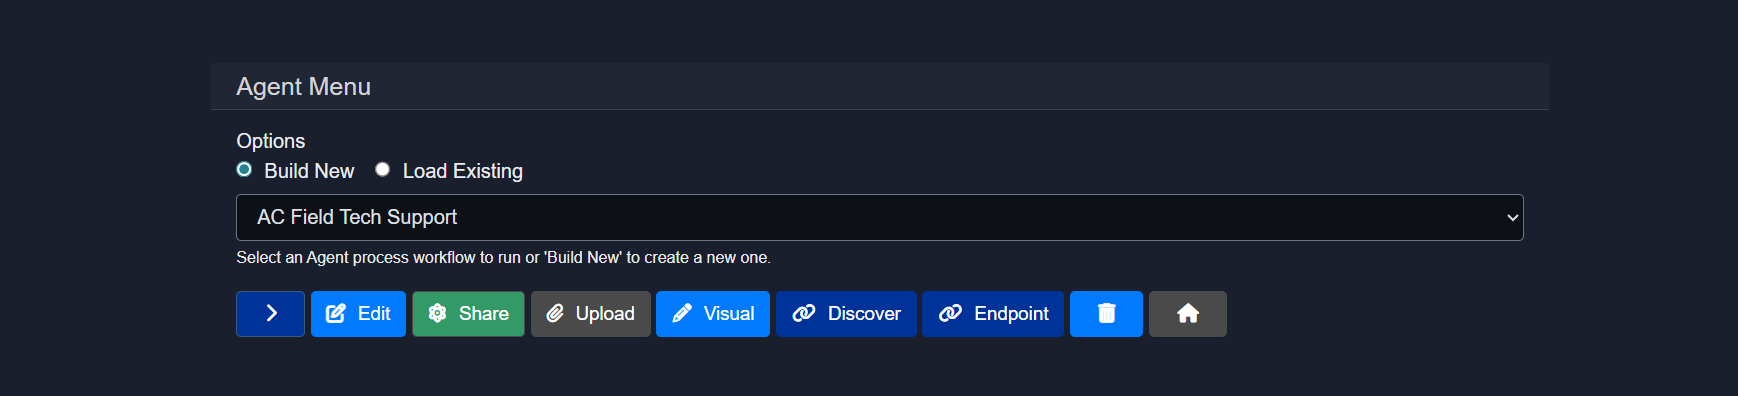
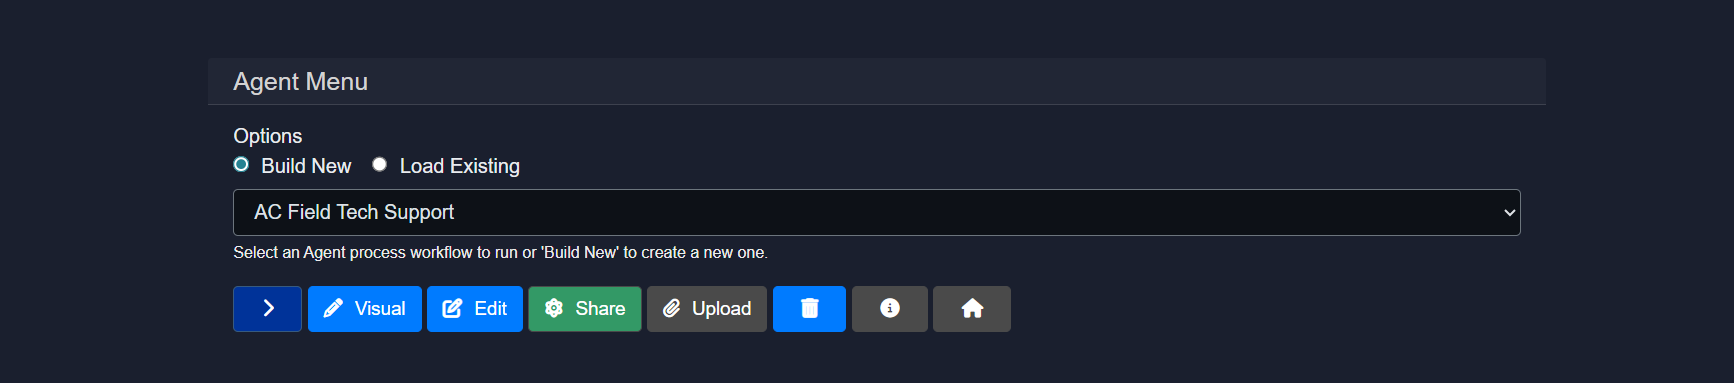
docs: add edit agents and create agents

diff --git a/model-hq-markdown-docs/v1/agents/editAgent.md b/model-hq-markdown-docs/v1/agents/editAgent.md
@@ -110,58 +110,7 @@ Steps are always executed from top to bottom in the order shown.
 
 Below is the list of supported services, their expected instruction formats, descriptions, and applicable context sources.
 
-| **Service Name**         | **Instruction**                                                        | **Description**                                                                               | **Context**                                   |
-| ------------------------ | ---------------------------------------------------------------------- | --------------------------------------------------------------------------------------------- | --------------------------------------------- |
-| **build_table**         | Enter name of table (will be built from the selected input table file) | Create Table from CSV data                                                                    | `User-Table`                                  |
-| **query_custom_table** | Enter query for database table                                         | Database lookup in natural language. Requires `build_table` first. Keep table schema in mind. | `Enter_name_of_Table` This table is the result of Build_Table service step.                         |
-| **semantic_filter**     | What is your question or instruction?                                  | Filters an existing source based on question/topic to create new filtered source              | `User-Source`                                 |
-| **text_filter**         | What is the keyword or topic to filter the source?                     | Filters an existing source based on question/topic                                            | `User-Source`, or a 'filtered' query in the agent process.                 |
-| **document_filter**     | Document name                                                          | Filters an existing source by document name                                                   | `User-Source`, or a 'filtered' query in the agent process.                 |
-| **table_filter**        | No instruction required                                                | Filters table type content in User Source                                                     | `User-Source`                                 |
-| **aggregate_context**   | List the names of source contexts to consolidate. Use space-separated names like: `source_1 source_2 source_3`. Do **not** use curly braces (`{{}}`).        | Consolidates multiple source contexts into one. This is used to merge several sources into a unified context.                                                         | `No input context required`                     |
-| **create_context**      | What is your question or instruction?                                  | Answers a question or performs an instruction                                                 | `User-Source`                                 |
-| **parse_document**      | Enter name of new document source                                      | Creates a source from document for further document-related processing                        | `User-Document`                               |
-| **ocr**      | Enter name of new document source                                      | Creates a source from document for further This is the fall-back step to documents that cannot be parsed using the 'parse_document' step because they are image-based PDFs or security-encrypted PDFs. Create Source from Document - a necessary step for handling Document-related workflows such as RAG or Summary. This service must be applied first, prior to using most User-Document related Services.                         | `User-Document`                               |
-| **rag_answer**          | Ask question to longer document input                                  | Answers a question based on a longer document input                                           | `User-Source`, `Provide_instruction_or_query` |
-| **report_commentary**   | (Optional) Guidance to Commentary                                      | Generate report and commentary on key process results from the agent state in Word - no input context required                                  | `-`                                           |
-| **agent_report**        | Enter title for agent report                                           | Prepares report on agent output                                                               | `-`                                           |
-| **wikipedia_search**    | Add Wikipedia Articles as Research Context                             | Adds Wikipedia articles as research context                                                   | `None`                                        |
-| **embedded_bot**    | Optional. None required.                             | Pauses the execution of the agent process to allow the user to interact with the current state of the agent in chat format.                                                    | `None`                                        |
-| **condition**    | Enter expression to evaluate in 'if_true' or 'if_false' format                             | Evaluates the truth value of a condition, which can then be used as a variable in any other process step such that the step will only execute if it meets the selected condition                                                   | `None`                                        |
-| **web_search**    | Add query for a topic or a question                              | Runs websearches returning a summary text as a source and an indexed set of text chunks - needs SERP API or Tavily API                                                   | `None`                                        |
-| **speech_gen**    | Enter a topic or short input to convert to speech file                              | Using a short text input, generates an audio voice wav file based on the input text. (Experimental)                                                   | `None`                                        |
-| **image_gen**    | Enter a topic or description to convert to an image                              | Creates an image using the description or instruction provided by the user                                                   | `None`                                        |
-| **website_scrapper**    | Enter the full website url                             | Scrapes the website in question (some websites are protected against automatic scraping and does not work for all websites) to extract content for a downstream question in the agent process                                                   | `None`                                        |
-| **send_email**    | Enter the email address of the receiver                              | Automatically sends an email (Gmail only with credentials provided in Configuration/Credentials)                                                   | `Select context of the email`                                        |
-| **connect_library**     | Enter library name                                                     | Connects to Semantic Library from Model HQ API                                                | `-`                                           |
-| **query_library**       | Enter query for semantic library                                       | Queries connected semantic library                                                            | `Enter_Library-name`                          |
-| **get_stock_summary**  | Enter stock ticker                                                     | Stock lookup using YFinance                                                                   | `None`                                        |
-| **vision**               | Enter question to image file                                           | Provides answer/description from image                                                        | `User-Image`                                  |
-| **vision_batch**               | Enter question to batch of image files                                           | Takes a collection of user images as an input context, along with a text input of a question or instruction. Returns text output context with the answer based on the set of images.                                                         | `User-Document`                                  |
-| **parse_batch**               | Enter question to batch of documents files that have been parsed                                           | Takes a collection of document files as an input context, and will return a set of text chunks, indexed and packaged as a source, which can then be used as input to a number of other services                                                        | `User-Document`                                  |
-| **sentiment**            | No instruction required                                                | Analyzes sentiment (positive/negative/neutral)                                                | `MAIN-INPUT`, `User-Text`                     |
-| **boolean**              | Provide yes/no question                                                | Provides yes/no answer with explanation                                                       | `MAIN-INPUT`, `User-Text`                     |
-| **emotions**             | No instruction required                                                | Analyzes primary emotion in input                                                             | `MAIN-INPUT`, `User-Text`                     |
-| **topics**               | No instruction required                                                | Classifies topic of input                                                                     | `MAIN-INPUT`, `User-Text`                     |
-| **tags**                 | No instruction required                                                | Generates tags from input                                                                     | `MAIN-INPUT`, `User-Text`                     |
-| **intent**               | No instruction required                                                | Classifies intent of input                                                                    | `MAIN-INPUT`, `User-Text`                     |
-| **ratings**              | No instruction required                                                | Rates positivity from 1 to 5                                                                  | `MAIN-INPUT`, `User-Text`                     |
-| **ner**                  | No instruction required                                                | Identifies named entities (people, places, organizations)                                     | `MAIN-INPUT`, `User-Text`                     |
-| **xsum**                 | No instruction required                                                | Generates extreme summary or headline                                                         | `MAIN-INPUT`, `User-Text`                     |
-| **summary**              | Optional - add input instructions to focus the summarization           | Summarizes source content                                                                     | `MAIN-INPUT`, `User-Text`                     |
-| **category**             | No instruction required                                                | Analyzes category of the input passage                                                        | `MAIN-INPUT`, `User-Text`                     |
-| **q_gen**               | No instruction required                                                | Generates question from passage                                                               | `MAIN-INPUT`, `User-Text`                     |
-| **chat**                 | What is your question or instruction?                                  | Answers a question or performs instruction                                                    | `MAIN-INPUT`, `User-Text`, `None`             |
-| **extract**              | Enter extraction key, e.g., 'customer name'                            | Extracts key-value pair                                                                       | `MAIN-INPUT`, `User-Text`                     |
-| **extract_tiny**        | Enter extraction key, e.g., 'customer name'                            | Extracts key-value pair (tiny version)                                                        | `MAIN-INPUT`, `User-Text`                     |
-| **answer**               | What is your question?                                                 | Answers specific question from passage                                                        | `MAIN-INPUT`, `User-Text`                     |
-| **extract_table**       | Enter query to filter among available tables                           | Extracts table from document                                                                  | `User-Document`                               |
-| **END**                  | End of process                                                         | Marks the end of agent process                                                                | `None`                                        |
-| **openai_chat**                  | Enter input question or instruction                                                         | Chat agent calls OpenAI (requires separate API key in Configuration/Credentials) with an optional text input context. The output provides a context passage that can be used by other services                                                                | `Main Input or other Text Source`                                        |
-| **openai_rag**                  | Enter input question or instruction                                                         | Calls OpenAI (requires separate API key in Configuration/Credentials) with a RAG question. The output provides a context passage that can be used by other services                                                                | `Main Input or other Text Source`                                        |
-| **openai_rag_batch**                  | Enter input question or instruction                                                         | Calls OpenAI (requires separate API key in Configuration/Credentials) with a batch of document sources and generates a response based on the input instruction/question. The output provides a context passage that can be used by other services                                                                | `Main Input or other Text Source`                                        |
-| **anthropic_chat**                  | Enter input question or instruction                                                         | Chat agent calls Anthropic (requires separate API key in Configuration/Credentials) with an optional text input context. The output provides a context passage that can be used by other services                                                                | `Main Input or other Text Source`                                        |
-
+#-- will add service table here --#
 
 ### 2.4 Example: AC field tech support agent
 The example below demonstrates an **AC Field Tech Support** agent configured with **8 sequential steps**.
@@ -180,37 +129,30 @@ Execution order in this example:
 * Answer a question using retrieved context
 * End the process
 
-#### 2.4.2 Steps explained (high level)
-**Step 1: build_table**
-Creates a structured table from CSV data so it can be queried later.
-
-**Step 2: vision**
-Answers a question based on an uploaded image.
-This step is used to identify the AC model number from an image.
-
-**Step 3: extract**
-Extracts a key value from the previous step output.
-The extracted value is stored as a named variable.
-
-**Step 4: query_custom_table**
-Queries structured AC data using natural language.
-
-**Step 5: query_custom_table**
-Performs another query using a variable produced in Step 3.
-
-**Step 6: parse_document**
-Creates a searchable source from a technical document.
-
-**Step 7: rag_answer**
-Answers a question using the parsed document as context.
-
-**Step 8: END**
-Marks completion of the agent execution.
-
 ### 2.5 Action buttons
 The Action Buttons provide quick access to configure inputs, manage files, execute the agent, inspect metadata, review outputs, and control the overall agent lifecycle. Each button opens a focused view related to a specific stage of the agent workflow.
 
-#### 2.5.1 Inputs
+#### 2.5.1 Visual editor
+The **Visual Editor** opens the drag-and-drop canvas used to build and edit the agent workflow.
+
+This interface opens the visual builder, where you can:
+
+* Nodes can be added, connected, and reordered
+* Services and inputs can be configured
+* Execution flow can be visually inspected
+
+#### 2.5.2 Run
+The **Run** action executes a test run of the agent using the currently configured inputs, files, and workflow.
+
+During execution:
+
+* Nodes are executed sequentially from top to bottom
+* Intermediate outputs are generated and stored as named variables
+* Any configuration or logic issues surface immediately during the run
+
+This mode is primarily used for validation, debugging, and iteration before publishing or sharing the agent.
+
+#### 2.5.3 Inputs
 The **Inputs** button can be used to configure or update the user inputs required to run the agent.
 
 Supported input types:
@@ -251,7 +193,7 @@ Input-specific notes:
 * **User-Source**
   Allows users to upload multiple files as a single object. Parsing, table building, and vision processing are handled automatically. For best results, it is recommended to apply `semantic_filter` and `create_context` early in the workflow.
 
-#### 2.5.2 Files
+#### 2.5.4 Files
 The **Files** section is used to upload, manage, and associate assets with the agent.
 
 ![edit](agents/editAgent/03_2files.png)
@@ -264,18 +206,7 @@ Capabilities include:
 
 Uploaded files become available as contexts that can be selected by agent services such as `parse_document`, `build_table`, or `vision`. Multiple files can be added before saving and exiting.
 
-#### 2.5.3 Run
-The **Run** action executes a test run of the agent using the currently configured inputs, files, and workflow.
-
-During execution:
-
-* Nodes are executed sequentially from top to bottom
-* Intermediate outputs are generated and stored as named variables
-* Any configuration or logic issues surface immediately during the run
-
-This mode is primarily used for validation, debugging, and iteration before publishing or sharing the agent.
-
-#### 2.5.4 Meta
+#### 2.5.5 Meta
 The **Meta** section allows descriptive and presentation-related information for the agent to be defined.
 
 ![edit](agents/editAgent/03_4meta.png)
@@ -288,7 +219,7 @@ This typically includes:
 
 Meta information does not affect execution but is used for documentation, discovery, and presentation.
 
-#### 2.5.5 Outputs
+#### 2.5.6 Outputs
 The **Outputs** section controls what the agent returns after execution.
 
 ![edit](agents/editAgent/03_5outputs.png)
@@ -301,7 +232,7 @@ Options include:
 
 This allows fine-grained control over what consumers of the agent actually receive, rather than returning all internal state by default.
 
-#### 2.5.6 Reports
+#### 2.5.7 Reports
 The **Reports** section controls how agent execution results are packaged into structured, downloadable documents for different audiences such as business users, engineers, or compliance reviewers.
 
 ![edit](agents/editAgent/03_6reports.png)
@@ -333,7 +264,7 @@ Output formats:
 
 Reports can be regenerated at any time after a run.
 
-#### 2.5.7 Controls
+#### 2.5.8 Controls
 The **Controls** section applies safety, privacy, and content protections automatically during agent execution. These safeguards help prevent sensitive data exposure, unsafe outputs, and malicious inputs without requiring changes to the workflow itself.
 
 ![edit](agents/editAgent/03_7controls.png)
@@ -369,7 +300,7 @@ Automated content checks are applied:
 **Exclusion list**
 Custom words or phrases (comma-separated) can be specified to be blocked or ignored during execution.
 
-#### 2.5.8 Services
+#### 2.5.9 Services
 The **Services** section is the service catalog for the agent. It determines which capabilities are available when building workflows. Only enabled services can be added as nodes.
 
 ![edit](agents/editAgent/03_8services.png)
@@ -409,31 +340,51 @@ Lightweight text analysis tools for labeling or scoring content.
 **Datasets**
 Tools for preparing, querying, and analyzing structured data.
 
-* build_dataset – create datasets from raw files
-* dataset_query – run queries on datasets
-* dataset_filter – filter rows or records
+* select_keys - selects specified keys from a JSON dictionary
+* build_dataset – create datasets from JSON
+* ds_command_filter - applies filter commands to a dataset
+* ds_column_filter - keep rows where a selected column meets your condition
+* ds_quick_stats – generates a statistical report based on selected column
+* ds_column_analysis - generates a report based on selected column
+* ds_report - generate a report of the dataset and the workflow results based on the agent run
+* ds_column_select - returns the selcted column from the dataset
+* ds_ask_dataset - use a natural language question to retrieve relevant information from the dataset
+* ds_readout - returns the text from a set of rows from the dataset for display
+* ds_smart_filter – find rows that match the meaning of your query
+* ds_keyword_filter - filter rows based on exact text matches in the selected column
 * dataset_plot – visualize data
-* dataset_stat – compute statistics
+* ds_statistics – perform deeper statistical analysis and generate insights
 * load_dataset – load saved datasets
-* ml_predict – run ML predictions
-* stats_analyze – perform analysis
-* create_json – export structured JSON
+* create_json – provide a list of agent keys to consolidate into a new JSON dictionary
+* ds_stat_analysis - generate statistical analysis of input data csv file
 
 **Specialized services**
 Advanced utilities for targeted or complex workflows.
 
+* build_table - create table from CSV data
+* query_custom_table - database look-up in natural language
+* json_extractor - converts a text chunk with embedded json into a structured dataset element
 * semantic_filter – meaning-based filtering
 * text_filter – rule-based text filtering
 * document_filter – document-level filtering
 * table_filter – structured table filtering
+* load_kb - load knowledge base into agent state used in 'ask_kb' calls
+* ds_ask_kb - answers knowledge base questions from a dataset input
 * transformer – text transformation tasks
-* parse_document – convert documents to text
-* create_context – build reusable context blocks
-* report_commentary – add report notes
-* speech_gen – generate audio output
-* image_gen – generate images
-* website_scraper – extract web content
-* extract_table – extract tables from documents
+* aggregate_context - provide a list of context names to consolidate
+* parse_document – convert documents to text files 
+* create_context – build reusable context blocks from the most relevant passages in a source based on query
+* report_commentary – generate commentary of key process results from the agent-state - no input context required
+* speech_gen – generate audio output from text
+* image_gen – generate images from text
+* get_stock_summary - stock ticker look-up (requires internet access)
+* speech - transcribe a speech file
+* speech_batch - transcribe a collection of speec
+* vision_batch - answer question based on a collection of image files
+* parse_batch - create source from document batch
+* extract_tiny - extracts a key-value pair
+* website_scraper – extract web content from allowed websites (note: many websites prevent this)
+* extract_table – extract tables from documents based on query
 
 **Integrations**
 Connect the agent to external systems or hosted models.
@@ -443,30 +394,7 @@ Examples include storage services, email, and external model providers.
 **Custom services**
 Workspace-specific or user-defined services added for specialized use cases.
 
-#### 2.5.9 Plan
-The **Plan** section allows the agent's intended behavior to be described using plain language. The system uses this description to automatically suggest or generate an ordered workflow.
-
-![edit](agents/editAgent/03_9plans.png)
-
-This helps:
-
-* Quickly scaffold new agents
-* Validate logic before building nodes
-* Document intended behavior
-* Speed up initial setup
-
-The description acts as a high-level specification of the agent's goal and execution steps.
-
-#### 2.5.10 Visual editor
-The **Visual Editor** opens the drag-and-drop canvas used to build and edit the agent workflow.
-
-This interface opens the visual builder, where you can:
-
-* Nodes can be added, connected, and reordered
-* Services and inputs can be configured
-* Execution flow can be visually inspected
-
-#### 2.5.11 JSON editor
+#### 2.5.10 JSON editor
 The **JSON Editor** displays the complete agent configuration in raw JSON format.
 
 This view shows the full structure of the agent, including services, nodes, inputs, contexts, and execution settings, allowing precise inspection and modification of how the workflow is defined.
@@ -547,5 +475,3 @@ Additional information about the Visual Builder can be found in the [Agent Visua
 This document provided comprehensive guidance on editing agents in Model HQ using both the step-based editor and the Visual Builder interface. The Edit Agent functionality enables existing workflows to be refined, extended, and optimized by modifying services, adjusting execution order, configuring inputs and outputs, and applying safety controls. The step-based editor offers precise control over linear agent workflows through a structured interface where services, instructions, and contexts can be configured for each execution step. The Visual Builder provides an intuitive drag-and-drop canvas for visualizing complex workflows, making structural changes, and understanding data flow through node-and-wire representations.
 
 Key editing capabilities include configuring input types (text, documents, images, tables, sources), managing files and assets, executing test runs for validation, defining metadata and presentation elements, controlling output formats, generating structured reports for different audiences, and applying automated safety controls such as pattern redaction and content classification. The Services catalog determines which capabilities are available within the agent, ranging from core services like chat and RAG to specialized utilities for web scraping, image generation, and email automation. Advanced features such as the Plan section enable natural language descriptions to be used for workflow generation, while the JSON Editor provides direct access to the underlying agent configuration for precise modifications.
-
-Understanding the Edit Agent interface is essential for maintaining production agents, adapting workflows to changing requirements, implementing safety and compliance controls, and building reusable agent templates that can be customized for specific deployment scenarios. The flexibility to switch between step-based and visual editing modes ensures that both quick targeted edits and complex structural changes can be performed efficiently, making Model HQ a powerful platform for iterative agent development and continuous workflow optimization.

diff --git a/model-hq-markdown-docs/v1/agents/createNewAgent.md b/model-hq-markdown-docs/v1/agents/createNewAgent.md
@@ -1,57 +1,66 @@
-# Creating a new agent in Model HQ
+# Creating a new agent in Model HQ
 The Agent creation interface in Model HQ provides multiple pathways for building custom workflows that automate document processing, data extraction, question answering, and complex multi-step analysis tasks. Agents can be created from scratch using step-by-step configuration, derived from existing agent templates, built visually using a drag-and-drop node editor, or imported from pre-packaged agent files. Each approach serves different use cases: step-based creation offers precise control over execution logic and service configuration, visual building provides intuitive workflow design through graphical interfaces, and template-based creation accelerates development by leveraging pre-built patterns for common scenarios.
 
-This guide provides a comprehensive walkthrough for creating new agents using the Model HQ platform, covering interface navigation, configuration options, and setup procedures for different agent types. Users will learn how to initiate agent creation, select appropriate building modes, configure agent properties such as name and input requirements, and establish the foundational workflow structure. Whether building a simple single-step agent or a complex multi-stage pipeline with branching logic and conditional execution, understanding the agent creation interface is essential for transforming business requirements into automated, repeatable processes.
+This guide provides a comprehensive walkthrough for creating new agents using the Model HQ platform, covering interface navigation, configuration options, and setup procedures for different agent types. The agent creation interface is essential for translating business requirements into automated, repeatable processes — whether the goal is a simple single-step agent or a complex multi-stage pipeline with branching logic and conditional execution.
 
-The documentation covers three primary agent building approaches: the Visual Builder for interactive node-based design, the Multi-Step Agent builder for structured sequential workflows, and the Prompting Agent builder for conversational AI implementations. Each mode has distinct advantages depending on the complexity of the workflow, the technical background of the user, and the specific use case requirements. Additional information on advanced topics such as service selection, context management, and output configuration will be covered in subsequent sections of the agent development documentation series.
+The documentation covers three primary agent building approaches: the **Visual Builder** for interactive node-based design, the **Multi-Step Agent** builder for structured sequential workflows, and the **Prompting Agent** builder for conversational AI implementations. Each mode carries distinct advantages depending on the complexity of the workflow, the technical background of the user, and the specific use case requirements. Advanced topics such as service selection, context management, and output configuration are covered in subsequent sections of the agent development documentation series.
 
 ## 1. Launching the interface
 To begin creating a new agent, the following steps should be performed:
 
 1. The **Main Menu** should be navigated to.
 2. The **Agents** section should be selected.
-3. The `Build New` option should be clicked to initiate a new agent.
+3. The **Build New** option should be clicked to initiate a new agent.
 
 ![create_agents](agents/createAgent/01_agentsMenu.png)
 
-The `>` button can be clicked to proceed to the next step.
+The **>** button can be selected to proceed to the next step.
 
 ## 2. Agent builder overview
-When starting to build a new agent, two primary options are presented:
-- **Option #1** - Start building a new process from scratch or derive from an existing process
-- **Option #2** - Upload an agent from a pre-packaged agent template zip file
+When the agent creation flow is initiated, two primary options are presented:
 
-The first option (building from scratch or deriving from existing workflows) will be discussed first, followed by the upload process for pre-built agent templates.
+- **Option 1** — A new process can be built from scratch, or an existing agent can be used as the starting point by deriving from it.
+- **Option 2** — A pre-packaged agent template can be uploaded from a `.zip` file to import a fully configured agent.
 
-When building an agent, multiple creation modes are available:
+![create_agents](agents/createAgent/02_agentBuilder.png)
+
+The sections below cover Option 1 in detail, walking through each of the available creation modes. When building an agent from scratch or from an existing workflow, three modes are available:
+
 1. Visual Builder
 2. Build Multi-Step Agent
 3. Build Prompting Agent
 
 ## 3.1 Visual builder
-The **Visual Builder** provides an interactive drag-and-drop interface for creating agents using a node-and-wire paradigm. This mode is particularly useful for users who prefer visual workflow design over text-based configuration. The Visual Builder allows nodes representing different services (such as document parsing, RAG retrieval, data extraction, or model inference) to be placed on a canvas and connected to define execution flow and data dependencies. Each node can be configured with specific instructions, input contexts, and output mappings through intuitive forms and dropdowns.
+The **Visual Builder** provides an interactive drag-and-drop interface for creating agents using a node-and-wire paradigm. This mode is particularly suited for users who prefer visual workflow design over text-based configuration. Nodes representing different services — such as document parsing, RAG retrieval, data extraction, or model inference — can be placed on a canvas and connected to define execution flow and data dependencies. Each node can be individually configured with specific instructions, input contexts, and output mappings through intuitive forms and dropdowns.
 
-The Visual Builder excels at creating complex workflows with branching logic, conditional execution, and parallel processing paths, as these structures are more easily understood and modified in graphical form. The interface includes features for zooming, panning, rearranging nodes, and validating connections to ensure data flows correctly between steps. Once the visual workflow is complete, it can be executed directly from the builder, exported as a JSON configuration file, or further refined using the step-based editor.
+The Visual Builder excels at creating complex workflows involving branching logic, conditional execution, and parallel processing paths, as these structures are more readily understood and modified in graphical form. The interface includes support for zooming, panning, rearranging nodes, and validating connections to ensure data flows correctly between steps. Once a visual workflow is complete, it can be executed directly from the builder, exported as a JSON configuration file, or further refined using the step-based editor.
 
-For comprehensive information about using the Visual Builder, including detailed walkthroughs of node types, connection rules, configuration options, and best practices for visual workflow design, the [Agent Visual Builder]() documentation should be consulted.
+For comprehensive information about the Visual Builder — including detailed walkthroughs of node types, connection rules, configuration options, and best practices for visual workflow design — the [Agent Visual Builder]() documentation should be consulted.
 
 ## 3.2 Build multi-step agent
-The **Multi-Step Agent** builder creates agents as linear sequences of services executed from start to finish.
+The **Multi-Step Agent** builder creates agents as ordered sequences of services that are executed from start to finish. This mode is well-suited for structured, predictable workflows in which each step has a clearly defined role and passes its output to the next.
 
 **Agent setup: Getting started**
-Basic information about the agent should be configured:
 
-* **Name the agent**
-  A unique, descriptive name should be provided for the agent that clearly indicates its purpose (e.g., "Contract Analyzer", "Invoice Processor", "Research Summarizer").
+Basic information about the agent should be configured at this stage:
 
-* **Define the input into the agent process**
-  Input types that will be provided by the user should be selected when starting the process. By default, 'text' is defined as `MAIN-INPUT`, and any additional inputs such as `User-Document`, `User-Table`, `User-Image`, or `User-Source` can be enabled as needed.
+- **Agent name**: A unique, descriptive name should be provided that clearly indicates the agent's purpose — for example, Contract Analyzer, Invoice Processor, or Research Summarizer.
 
-* **Start process from scratch or derive from existing process**
-  The agent can be built from scratch (default) with a blank workflow, or it can be derived from an existing agent template to leverage pre-built logic and structure.
+- **Input definition**: The input types that will be provided when the agent is run should be selected. By default, 	ext is defined as MAIN-INPUT. Additional input types — such as User-Document, User-Table, User-Image, or User-Source — can be enabled as required by the workflow.
 
+- **Derive Agent**: The agent can be built from scratch with a blank workflow (the default), or an existing agent can be selected as the base to derive from, inheriting its pre-built logic and structure.
 
 ## 3.3 Build prompting agent
+The **Prompting Agent** builder is designed for creating conversational AI workflows that centre on natural language interactions and prompt-based model invocations. This mode is the simplest entry point for deploying a language model with custom instructions, making it well-suited for question-answering agents, summarisation assistants, and other single-model interaction patterns.
 
-The **Prompting Agent** builder is designed for creating conversational AI workflows that focus on natural language interactions and prompt-based model invocations.
+![create_agents](agents/createAgent/03_promptingAgent.png)
 
+> [!NOTE]
+> The configuration steps for the Prompting Agent — including name, input definition, and starting point — follow the same structure as described in the Multi-Step Agent setup above. For details on subsequent configuration options such as services, controls, and plan, refer to the [Editing Agents]() documentation.
+
+## Conclusion
+This document described the agent creation interface in Model HQ and the three primary modes available for building new agents: the Visual Builder, the Multi-Step Agent builder, and the Prompting Agent builder. Each mode provides a different entry point into the agent development process, and the appropriate choice will depend on the complexity of the intended workflow and the preferred working style of the user.
+
+Regardless of the mode selected, the foundational steps remain consistent: a meaningful agent name should be assigned, the correct input types should be defined, and a decision should be made on whether to start from a blank slate or derive from an existing agent. These initial choices shape the structure of the workflow and influence how the agent will be configured and maintained over time.
+
+For next steps, the [Agent Visual Builder]() documentation covers the Visual Builder in detail, and the [Editing Agents]() documentation provides a full reference for all configuration options available after the initial setup — including steps, services, controls, plans, and output settings.
